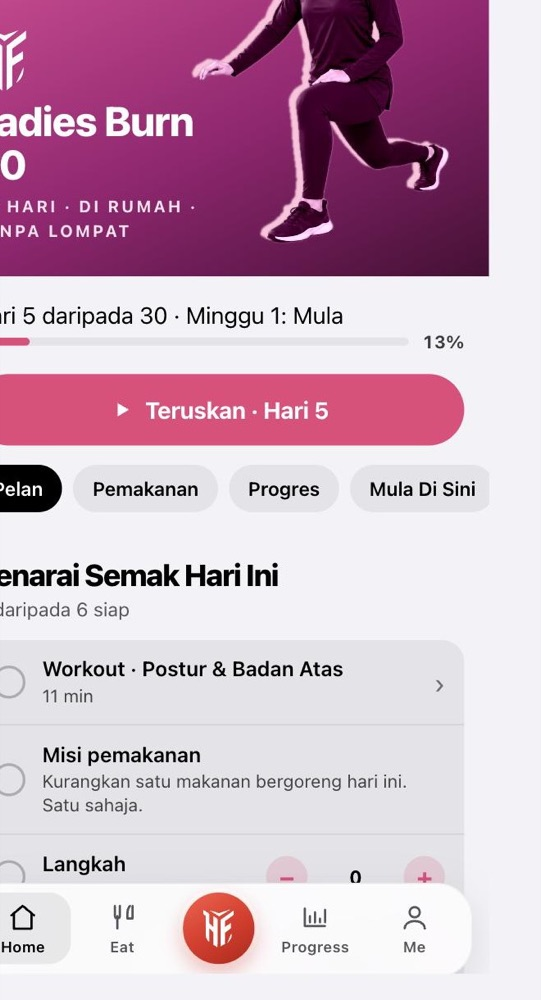
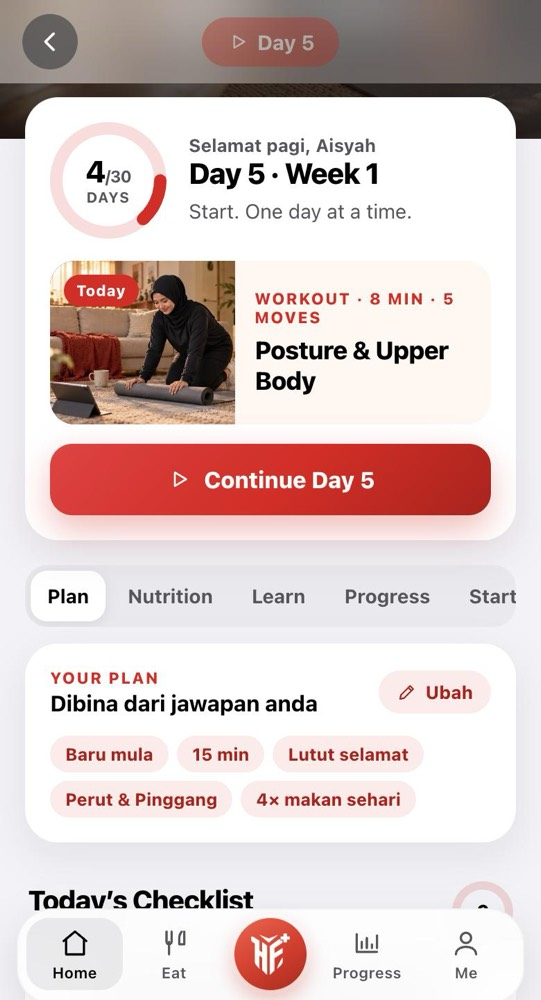
Ladies landing page sells her own plan (Seth: ok). The hero says the 30 days are built from her answers (12 questions after she pays, in the app); a new section, "Bukan pelan sama untuk semua orang", shows the three steps, the question and plan screens, what her training and her menu follow, two wor

diff --git a/ladies/index.html b/ladies/index.html
@@ -4,9 +4,9 @@
 <meta charset="utf-8">
 <meta name="viewport" content="width=device-width, initial-scale=1, viewport-fit=cover">
 <title>Ladies Burn 30 · Program 30 Hari Khas Wanita, di Rumah</title>
-<meta name="description" content="Program workout 30 hari khas untuk wanita: dari rumah, tanpa lompat, 20 minit sehari, dengan menu makanan Malaysia. RM39 sekali bayar.">
+<meta name="description" content="Pelan 30 hari khas untuk wanita, dibina ikut jawapan anda: workout dari rumah tanpa lompat, 10 hingga 20 minit sehari, dan menu makanan Malaysia ikut cara anda makan. RM39 sekali bayar.">
 <meta property="og:title" content="Ladies Burn 30 · Program 30 Hari Khas Wanita, di Rumah">
-<meta property="og:description" content="Dari rumah, tanpa lompat, 20 minit sehari. Menu makanan Malaysia. RM39 sekali bayar.">
+<meta property="og:description" content="Pelan peribadi 30 hari: workout dari rumah tanpa lompat, menu makanan Malaysia ikut cara anda makan. RM39 sekali bayar.">
 <meta property="og:image" content="https://app.hitfat.io/ladies/img/hero-rumah.jpg">
 <meta property="og:url" content="https://app.hitfat.io/ladies/">
 <meta property="og:type" content="website">
@@ -105,7 +105,7 @@ section{padding:56px 0}
 .feat{display:grid;grid-auto-flow:column;grid-auto-columns:100%;gap:20px;margin:24px 0 0;padding:6px 0 10px;overflow-x:auto;scroll-snap-type:x mandatory;-webkit-overflow-scrolling:touch;scrollbar-width:none}
 .feat::-webkit-scrollbar{display:none}
 .f{scroll-snap-align:start;scroll-snap-stop:always;display:flex;flex-direction:column;align-items:center;gap:14px;text-align:center}
-.f .phone{width:64%;max-width:250px}
+.f .phone{width:80%;max-width:300px}
 .f .n{display:inline-grid;place-items:center;width:26px;height:26px;border-radius:50%;background:var(--red);color:#fff;font-size:13px;font-weight:800;margin-bottom:6px}
 .phone{border-radius:28px;overflow:hidden;border:7px solid var(--black);box-shadow:0 18px 36px rgba(20,16,16,.16);background:#fff;aspect-ratio:541/1000}
 .phone img{width:100%;height:100%;object-fit:cover;object-position:top}
@@ -115,12 +115,17 @@ section{padding:56px 0}
 .dots{display:flex;gap:6px}
 .dots i{width:8px;height:8px;border-radius:5px;background:#E6D5CE;transition:width .25s,background .25s}
 .dots i.on{width:22px;background:var(--red)}
+/* the screens by part of the app; a part's button slides to it */
+.ftabs{display:flex;gap:8px;margin:22px 0 0;overflow-x:auto;scrollbar-width:none}
+.ftabs::-webkit-scrollbar{display:none}
+.ftabs button{flex:none;padding:10px 16px;border-radius:999px;border:1.5px solid var(--line);background:var(--white);color:var(--ink);font:700 14px/1 'Plus Jakarta Sans',sans-serif;cursor:pointer}
+.ftabs button.on{background:var(--red);border-color:var(--red);color:#fff}
+.feat .f{position:relative}
 @media (min-width:760px){
   .demo .w{max-width:980px}
-  .feat{grid-auto-flow:row;grid-template-columns:repeat(3,1fr);grid-auto-columns:auto;gap:28px;margin:28px 0 0;padding:0;overflow:visible}
+  .feat{grid-auto-columns:calc((100% - 56px)/3);gap:28px;margin:22px 0 0}
   .f{align-items:stretch;text-align:left}
   .f .phone{width:100%;max-width:none}
-  .swipe{display:none}
 }
 .not{margin-top:22px;padding:16px 18px;border-radius:14px;background:var(--cream);border:1.5px dashed #D9C5BC;font-size:14.5px;color:var(--ink2)}
 .not b{color:var(--ink)}
@@ -144,6 +149,25 @@ section{padding:56px 0}
 .who.no div{font-weight:500;color:var(--ink2)}
 .who.no div:before{content:'–';background:#F3ECE8;color:var(--ink2)}
 .h3s{margin-top:30px;font-size:17px;font-weight:800}
+.perso{background:var(--peach)}
+.psteps{display:grid;grid-template-columns:repeat(3,1fr);gap:8px;margin-top:22px}
+.psteps div{display:flex;flex-direction:column;gap:2px;padding:14px 12px;border-radius:14px;background:var(--white);border:1px solid var(--line)}
+.psteps i{width:30px;height:30px;margin-bottom:6px;border-radius:50%;background:var(--red);color:#fff;font-style:normal;font-weight:800;font-size:14px;display:grid;place-items:center}
+.psteps b{font-size:14.5px;line-height:1.3}
+.psteps span{font-size:12.5px;line-height:1.4;color:var(--ink2)}
+.pphones{display:grid;grid-template-columns:1fr 1fr;gap:14px;margin:26px auto 0;max-width:520px}
+.pcols{display:grid;gap:12px;margin-top:26px}
+.pcol{padding:18px;border-radius:16px;background:var(--white);border:1px solid var(--line)}
+.pcol h3{margin:0 0 10px;font-size:17px;font-weight:800}
+.pcol div{display:flex;gap:10px;align-items:flex-start;padding:6px 0;font-size:15px;font-weight:600;line-height:1.45}
+.pcol div:before{content:'✓';flex:none;width:22px;height:22px;margin-top:1px;border-radius:50%;background:var(--red);color:#fff;font-size:12px;font-weight:800;display:grid;place-items:center}
+.pex{display:grid;gap:10px;margin-top:14px}
+.pex div{padding:16px 18px;border-radius:16px 16px 30px 16px;background:var(--black);color:#fff}
+.pex small{display:block;font-size:11px;font-weight:800;letter-spacing:.12em;text-transform:uppercase;color:#FF8A8F}
+.pex b{display:block;margin-top:4px;font-size:16px}
+.pex span{display:block;margin-top:6px;font-size:14.5px;line-height:1.5;color:rgba(255,255,255,.8)}
+@media (min-width:900px){ .pcols,.pex{grid-template-columns:1fr 1fr} }
+@media (max-width:380px){ .psteps{grid-template-columns:1fr} }
 .care{margin-top:22px;padding:14px 16px;border-radius:14px;background:#FFF4E5;border:1px solid #FFE0B3;font-size:14px;color:#7A4A00}
 
 /* trust */
@@ -317,13 +341,13 @@ h2 em{font-style:normal;color:var(--red)}
       <a class="wa-top" href="#" data-wa>WhatsApp kami</a>
     </div>
     <div class="hero-grid">
-      <div class="hero-ph"><picture><source srcset="img/hero-rumah.webp" type="image/webp"><img src="img/hero-rumah.jpg" alt="Seorang ibu bertudung buat squat di atas tikar di ruang tamu, mengikut video workout di tablet" width="1254" height="1254"></picture><div class="tag"><span>Ladies Burn 30</span>20 minit sehari · tanpa lompat</div></div>
+      <div class="hero-ph"><picture><source srcset="img/hero-rumah.webp" type="image/webp"><img src="img/hero-rumah.jpg" alt="Seorang ibu bertudung buat squat di atas tikar di ruang tamu, mengikut video workout di tablet" width="1254" height="1254"></picture><div class="tag"><span>Ladies Burn 30</span>Pelan peribadi · tanpa lompat</div></div>
       <div>
-        <span class="eyebrow">KHAS UNTUK WANITA · 30 HARI · DI RUMAH</span>
+        <span class="eyebrow">KHAS UNTUK WANITA · PELAN PERIBADI 30 HARI · DI RUMAH</span>
         <h1>Nak Kurus, Tapi Sibuk Urus <em>Kerja, Rumah &amp; Keluarga?</em></h1>
-        <p class="hsub">Program Workout 30 Hari Khas Untuk Wanita — Dari Rumah, Tanpa Lompat &amp; Hanya 20 Minit Sehari.</p>
-        <p class="lede">Tak perlu pergi gym. Tak perlu peralatan mahal. Tak perlu diet ekstrem. Mulakan perjalanan fitness anda dengan panduan yang mudah diikuti, walaupun anda seorang beginner.</p>
-        <div class="icons"><div><i><svg viewBox="0 0 24 24"><path d="M3 11l9-7 9 7v9a1 1 0 0 1-1 1h-5v-6H9v6H4a1 1 0 0 1-1-1z"/></svg></i>Workout dari rumah</div><div><i><svg viewBox="0 0 24 24"><path d="M4 9h4l5-4v14l-5-4H4z"/><path d="M17 9l4 6M21 9l-4 6"/></svg></i>Tanpa lompat, senyap</div><div><i><svg viewBox="0 0 24 24"><path d="M3 11h18a9 9 0 0 1-18 0z"/><path d="M8 7c0-2 2-2 2-4M13 7c0-2 2-2 2-4"/></svg></i>Panduan makan Malaysia</div><div><i><svg viewBox="0 0 24 24"><circle cx="12" cy="12" r="9"/><path d="M12 7v5l3 2"/></svg></i>Hanya 20 minit sehari</div></div>
+        <p class="hsub">Program 30 Hari Khas Untuk Wanita — Workout &amp; Menu Yang Dibina Ikut Badan, Masa &amp; Cara Anda Makan. Dari Rumah, Tanpa Lompat.</p>
+        <p class="lede">Bukan pelan sama untuk semua orang. Selepas daftar, jawab 12 soalan ringkas dan app HITFAT+ terus bina pelan 30 hari anda sendiri: ikut tahap anda, lutut atau belakang yang sakit, masa yang ada, dan berapa kali anda makan sehari.</p>
+        <div class="icons"><div><i><svg viewBox="0 0 24 24"><path d="M3 11l9-7 9 7v9a1 1 0 0 1-1 1h-5v-6H9v6H4a1 1 0 0 1-1-1z"/></svg></i>Workout dari rumah</div><div><i><svg viewBox="0 0 24 24"><path d="M4 9h4l5-4v14l-5-4H4z"/><path d="M17 9l4 6M21 9l-4 6"/></svg></i>Tanpa lompat, senyap</div><div><i><svg viewBox="0 0 24 24"><path d="M3 11h18a9 9 0 0 1-18 0z"/><path d="M8 7c0-2 2-2 2-4M13 7c0-2 2-2 2-4"/></svg></i>Menu ikut cara anda makan</div><div><i><svg viewBox="0 0 24 24"><circle cx="12" cy="12" r="9"/><path d="M12 7v5l3 2"/></svg></i>10 hingga 20 minit sehari</div></div>
         <a class="cta" href="#" data-buy="hero">Saya Nak Mula — RM39</a>
         <div class="sub"><b>Bayar sekali sahaja</b> · tiada langganan · akses terus dalam app HITFAT+</div>
       </div>
@@ -368,8 +392,8 @@ h2 em{font-style:normal;color:var(--red)}
   <div class="w reveal">
     <span class="k">Jangan risau….</span>
     <h2>Ladies Burn 30 memang direka untuk wanita yang <em>SIBUK</em> macam anda!</h2>
-    <div class="ticks"><div>Hanya 20 minit sehari, di rumah sendiri</div><div>Tanpa lompat, tanpa alat</div><div>Makan makanan biasa, termasuk nasi</div></div>
-    <p class="story">Program workout 30 hari khas untuk wanita, dalam app HITFAT+. Setiap hari anda buka telefon dan terus tahu apa nak buat: satu workout pendek, satu misi pemakanan, dan senarai semak yang ringkas.</p>
+    <div class="ticks"><div>Pelan dibina ikut jawapan anda sendiri</div><div>10 hingga 20 minit sehari, di rumah, tanpa lompat</div><div>Makan makanan biasa, termasuk nasi</div></div>
+    <p class="story">Program 30 hari khas untuk wanita, dalam app HITFAT+. Setiap hari anda buka telefon dan terus tahu apa nak buat: workout anda untuk hari itu, menu anda, satu misi pemakanan, dan senarai semak yang ringkas.</p>
     <div class="pic"><img src="img/lb-penyelesaian.webp" alt="Wanita bertudung duduk di atas tikar selepas workout, tersenyum melihat telefon" loading="lazy" width="1536" height="1024"></div>
     <div class="sol">
       <div><i><svg viewBox="0 0 24 24"><rect x="3" y="5" width="18" height="16" rx="2"/><path d="M3 10h18M8 3v4M16 3v4"/></svg></i><b>Workout tersusun 30 hari</b></div>
@@ -387,27 +411,98 @@ h2 em{font-style:normal;color:var(--red)}
   </div>
 </section>
 
+<!-- 4b · PERSONALISED (25 Oct 2026): what her answers change, as the app does it.
+     The plan is built by the app from her answers, not written by a coach. -->
+<section class="perso">
+  <div class="w reveal">
+    <span class="k">Pelan peribadi</span>
+    <h2>Bukan pelan sama untuk <em>semua orang</em>.</h2>
+    <p class="story">Setiap wanita lain. Ada yang baru mula, ada yang lutut sakit, ada yang baru bersalin. Ada yang makan 3 kali sehari, ada yang 5 kali, dan ada yang tak makan pedas. Sebab itu Ladies Burn 30 tidak memberi semua orang pelan yang sama.</p>
+    <div class="psteps">
+      <div><i>1</i><b>Daftar &amp; bayar</b><span>RM39, sekali sahaja.</span></div>
+      <div><i>2</i><b>Jawab 12 soalan</b><span>Dalam app, lebih kurang 2 minit.</span></div>
+      <div><i>3</i><b>Pelan anda sedia</b><span>Serta-merta. Hari 1 terus terbuka.</span></div>
+    </div>
+    <div class="pphones">
+      <div class="phone"><img src="img/app-quiz.jpg" alt="Soalan dalam app: ada bahagian yang selalu sakit? Lutut, belakang bawah, pergelangan tangan" loading="lazy" width="541" height="1000"></div>
+      <div class="phone"><img src="img/app-pelan.jpg" alt="Pelan anda sudah sedia: 30 hari, dibina untuk anda, dengan senarai apa yang berubah" loading="lazy" width="541" height="1000"></div>
+    </div>
+    <div class="pcols">
+      <div class="pcol"><h3>Workout anda ikut…</h3>
+        <div>Tahap anda: baru mula, kadang-kadang, atau aktif</div>
+        <div>Lutut, belakang atau pergelangan tangan yang sakit: gerakannya ditukar</div>
+        <div>Baru bersalin: tiada crunch atau sit-up (selepas doktor benarkan)</div>
+        <div>Masa anda: 10, 15 atau 20 minit sehari</div>
+        <div>Bahagian yang anda mahu ubah: perut, punggung atau postur</div>
+        <div>Kerusi atau botol air yang ada di rumah</div>
+      </div>
+      <div class="pcol"><h3>Menu anda ikut…</h3>
+        <div>Berapa kali anda makan: 3, 4, 5 atau 6 kali sehari</div>
+        <div>Makanan yang anda tak makan: ikan, udang, daging, santan, pedas, susu, telur atau kacang</div>
+        <div>Sasaran kalori anda, dan nasi disukat untuk setiap waktu makan</div>
+        <div>Masak sendiri, masak untuk keluarga, atau kebanyakannya beli</div>
+        <div>Senarai belanja ikut menu anda</div>
+      </div>
+    </div>
+    <div class="pex">
+      <div><small>Contoh jawapan</small><b>Baru mula · lutut sakit · 15 minit</b><span>Push-up dari dinding, tiada squat atau lunge, 2 pusingan untuk dua minggu pertama, setiap sesi 15 minit atau kurang.</span></div>
+      <div><small>Contoh jawapan</small><b>Aktif · 20 minit · makan 5 kali · tak makan pedas</b><span>45 saat setiap gerakan, push-up penuh di minggu akhir, dan menu 5 kali sehari tanpa hidangan pedas.</span></div>
+    </div>
+    <p class="fine">Pelan anda dibina oleh app HITFAT+ secara automatik daripada jawapan anda. Anda boleh ubah jawapan bila-bila masa, dan pelan dibina semula.</p>
+    <a class="cta mid" href="#" data-buy="perso">Bina Pelan Saya — RM39</a>
+  </div>
+</section>
+
 <!-- 5 · DEMONSTRATION -->
 <section class="bg-w demo">
   <div class="w reveal">
     <span class="k">Tengok sendiri</span>
     <h2>Macam ini rupanya <em>dalam app</em>.</h2>
-    <p class="intro">Skrin sebenar Ladies Burn 30 dalam HITFAT+, di app.hitfat.io. Tiada muat turun dari App Store.</p>
+    <p class="intro">Skrin sebenar Ladies Burn 30 dalam HITFAT+, di app.hitfat.io. Tiada muat turun dari App Store. Tekan bahagian yang anda mahu tengok.</p>
+    <div class="ftabs" id="ftabs"><button type="button" data-g="latihan" class="on">Latihan</button><button type="button" data-g="makan">Makan</button><button type="button" data-g="progres">Progres</button><button type="button" data-g="belajar">Belajar</button></div>
     <div class="feat">
-      <div class="f">
-        <div class="phone"><img src="img/app-hero.jpg" alt="Skrin utama Ladies Burn 30" loading="lazy" width="541" height="1000"></div>
-        <div><span class="n">1</span><h3>Buka telefon, tahu apa nak buat hari ni</h3><p>Senarai semak harian: workout, langkah, air, misi pemakanan dan tidur.</p></div>
+      <div class="f" data-g="latihan">
+        <div class="phone"><img src="img/app-hero.jpg" alt="Skrin utama: Hari 5, workout hari ini dan kad pelan anda" loading="lazy" width="541" height="1000"></div>
+        <div><span class="n">1</span><h3>Hari ini, satu skrin</h3><p>Buka telefon dan terus nampak workout anda hari ini, berapa minit, dan pelan anda.</p></div>
       </div>
-      <div class="f">
-        <div class="phone"><img src="img/app-menu.jpg" alt="Sasaran kalori dan menu makanan Malaysia" loading="lazy" width="541" height="1000"></div>
-        <div><span class="n">2</span><h3>Sasaran kalori anda, menu yang anda kenal</h3><p>Dikira dari berat, tinggi dan umur (tidak pernah bawah 1,200 kcal). Tiga pilihan setiap waktu makan.</p></div>
+      <div class="f" data-g="latihan">
+        <div class="phone"><img src="img/app-day.jpg" alt="Skrin workout: minit, gerakan, pusingan, pilihan sekali gus atau 2 kali 10 minit" loading="lazy" width="541" height="1000"></div>
+        <div><span class="n">2</span><h3>Setiap workout, jelas</h3><p>Berapa minit, berapa gerakan, berapa pusingan, dan sifar lompatan. Buat sekali gus, atau 2 × 10 minit pagi dan petang.</p></div>
       </div>
-      <div class="f">
-        <div class="phone"><img src="img/app-plan.jpg" alt="Pelan 30 hari" loading="lazy" width="541" height="1000"></div>
-        <div><span class="n">3</span><h3>30 workout, satu hari satu</h3><p>10 hingga 20 minit, tanpa lompat dan tanpa alat. Ikut video, dengan suara yang mengira dan muzik.</p></div>
+      <div class="f" data-g="latihan">
+        <div class="phone"><img src="img/app-moves.jpg" alt="Senarai gerakan dengan butang video" loading="lazy" width="541" height="1000"></div>
+        <div><span class="n">3</span><h3>Video setiap gerakan</h3><p>Tekan mana-mana gerakan untuk tonton videonya dahulu. Saat setiap gerakan ikut tahap anda.</p></div>
+      </div>
+      <div class="f" data-g="latihan">
+        <div class="phone"><img src="img/app-plan.jpg" alt="Pelan 30 hari mengikut minggu" loading="lazy" width="541" height="1000"></div>
+        <div><span class="n">4</span><h3>30 hari, 4 minggu</h3><p>Start, Build, Glow, Strong. Nampak hari yang dah siap dan hari yang menunggu.</p></div>
+      </div>
+      <div class="f" data-g="makan">
+        <div class="phone"><img src="img/app-target.jpg" alt="Sasaran kalori harian, misi pemakanan dan scan makanan" loading="lazy" width="541" height="1000"></div>
+        <div><span class="n">5</span><h3>Sasaran kalori anda</h3><p>Kalori, protein, karbo, lemak dan air, dikira untuk badan anda. Satu misi pemakanan setiap hari, dan 10 scan AI untuk ambil gambar hidangan.</p></div>
+      </div>
+      <div class="f" data-g="makan">
+        <div class="phone"><img src="img/app-menu.jpg" alt="Menu sarapan dengan gambar hidangan" loading="lazy" width="541" height="1000"></div>
+        <div><span class="n">6</span><h3>Menu dengan gambar</h3><p>Setiap waktu makan ada tiga pilihan hidangan Malaysia, dengan gambar dan kalorinya.</p></div>
+      </div>
+      <div class="f" data-g="makan">
+        <div class="phone"><img src="img/app-rice.jpg" alt="Hidangan tengah hari dengan sukatan nasi anda" loading="lazy" width="541" height="1000"></div>
+        <div><span class="n">7</span><h3>Nasi anda, disukat</h3><p>App kira berapa genggam nasi untuk anda pada setiap waktu makan, ikut sasaran kalori anda.</p></div>
+      </div>
+      <div class="f" data-g="makan">
+        <div class="phone"><img src="img/app-shop.jpg" alt="Senarai belanja mengikut minggu" loading="lazy" width="541" height="1000"></div>
+        <div><span class="n">8</span><h3>Senarai belanja</h3><p>Dari menu anda untuk seminggu. Tanda bila dah beli, atau hantar ke WhatsApp.</p></div>
+      </div>
+      <div class="f" data-g="progres">
+        <div class="phone"><img src="img/app-fit.jpg" alt="Fit test Hari 1 dan Hari 30" loading="lazy" width="541" height="1000"></div>
+        <div><span class="n">9</span><h3>Nampak anda makin kuat</h3><p>Check-in Hari 1, 15 dan 30: berat, pinggang, pinggul, gambar, dan fit test Hari 1 lawan Hari 30.</p></div>
+      </div>
+      <div class="f" data-g="belajar">
+        <div class="phone"><img src="img/app-learn.jpg" alt="Nutrition Academy dalam app" loading="lazy" width="541" height="1000"></div>
+        <div><span class="n">10</span><h3>Nutrition Academy</h3><p>28 video pendek dalam Bahasa Melayu tentang makan, mamak, kenduri dan penimbang. Termasuk dalam Ladies Burn 30.</p></div>
       </div>
     </div>
-    <div class="swipe"><span class="dots" id="feat-dots"><i class="on"></i><i></i><i></i></span>Leret untuk lihat →</div>
+    <div class="swipe"><span class="dots" id="feat-dots"><i class="on"></i><i></i><i></i><i></i><i></i><i></i><i></i><i></i><i></i><i></i></span>Leret untuk lihat →</div>
   </div>
 </section>
 
@@ -478,7 +573,8 @@ h2 em{font-style:normal;color:var(--red)}
       <div>Baru nak mula bersenam, atau dah lama berhenti</div>
       <div>Ibu yang bekerja, suri rumah, atau wanita yang sibuk</div>
       <div>Lebih selesa bersenam di rumah, dalam privasi sendiri</div>
-      <div>Lutut tak suka lompat-lompat</div>
+      <div>Ada lutut, belakang atau pergelangan tangan yang sensitif</div>
+      <div>Baru bersalin dan doktor sudah benarkan bersenam</div>
       <div>Nak makan makanan biasa, bukan diet pelik</div>
     </div>
     <p class="h3s">Mungkin kurang sesuai kalau anda…</p>
@@ -487,7 +583,7 @@ h2 em{font-style:normal;color:var(--red)}
       <div>Mencari cara turun berat yang sangat cepat dalam masa singkat</div>
       <div>Sudah biasa dengan latihan berat dan mahu cabaran yang lebih tinggi</div>
     </div>
-    <div class="care"><b>Sebelum mula:</b> jika anda hamil, baru bersalin (kurang 6 minggu), selepas pembedahan caesarean, atau ada masalah kesihatan, dapatkan nasihat doktor dahulu.</div>
+    <div class="care"><b>Sebelum mula:</b> program ini tidak dibina untuk kehamilan. Jika anda baru bersalin (kurang 6 minggu), selepas pembedahan caesarean, atau ada masalah kesihatan, dapatkan nasihat doktor dahulu.</div>
   </div>
 </section>
 
@@ -497,10 +593,12 @@ h2 em{font-style:normal;color:var(--red)}
     <span class="k">Apa yang anda dapat</span>
     <h2>Semua ini dalam Ladies Burn 30.</h2>
     <div class="stack">
+      <div><i>🧩</i><b>Pelan 30 hari yang dibina untuk anda</b><span>12 soalan selepas daftar. Workout dan menu ikut jawapan anda.</span></div>
       <div><i>🎥</i><b>30 workout dengan video setiap gerakan</b><span>10 hingga 20 minit sehari, tanpa lompat, tanpa alat.</span></div>
       <div><i>🔊</i><b>Suara yang mengira, dan muzik</b><span>Nama gerakan, kiraan 5-4-3-2-1, dan bila masa rehat.</span></div>
-      <div><i>🎯</i><b>Sasaran kalori dan makro anda sendiri</b><span>Dikira dari berat, tinggi dan umur. Tidak pernah bawah 1,200 kcal.</span></div>
-      <div><i>🍛</i><b>Menu makanan Malaysia untuk 30 hari</b><span>Sarapan, bekal tengah hari, makan malam keluarga. Tiga pilihan setiap waktu.</span></div>
+      <div><i>🎯</i><b>Sasaran kalori dan makro anda sendiri</b><span>Dikira dari badan, aktiviti dan rentak anda. Tidak pernah bawah 1,200 kcal.</span></div>
+      <div><i>🍛</i><b>Menu makanan Malaysia untuk 30 hari</b><span>3 hingga 6 kali sehari, 64 hidangan bergambar, tiga pilihan setiap waktu, nasi disukat untuk anda.</span></div>
+      <div><i>🛒</i><b>Senarai belanja setiap minggu</b><span>Dari menu anda, tanda bila dah beli, hantar ke WhatsApp.</span></div>
       <div><i>✅</i><b>30 misi pemakanan dan senarai semak harian</b><span>Satu langkah kecil setiap hari.</span></div>
       <div><i>📏</i><b>Check-in Hari 1, 15 dan 30</b><span>Ukuran, gambar progres (dalam telefon anda sahaja) dan fit test.</span></div>
       <div><i>🏅</i><b>Lencana setiap minggu</b><span>Start, Build, Glow, Strong.</span></div>
@@ -515,7 +613,7 @@ h2 em{font-style:normal;color:var(--red)}
   <div class="w reveal">
     <span class="k">Harga</span>
     <h2>Berapa untuk semua ini?</h2>
-    <p class="anchor">Satu kelas walk-in di gym HITFAT ialah RM40. Ladies Burn 30 memberi anda 30 hari workout, pelan dan menu, untuk harga yang lebih rendah dari satu kelas itu.</p>
+    <p class="anchor">Satu kelas walk-in di gym HITFAT ialah RM40. Ladies Burn 30 memberi anda pelan peribadi 30 hari, workout dan menu, untuk harga yang lebih rendah dari satu kelas itu.</p>
     <div class="pcard">
       <div class="amt"><b>RM39</b><span>sekali bayar</span></div>
       <div class="per">Kurang dari RM1.30 sehari untuk 30 hari. Tiada langganan, tiada caj bulanan. Milik anda selamanya.</div>
@@ -526,7 +624,7 @@ h2 em{font-style:normal;color:var(--red)}
     <div class="after">
       <div><i>1</i><span><b>Isi maklumat</b>Nama, emel dan no. telefon.</span></div>
       <div><i>2</i><span><b>Bayar dengan selamat</b>FPX atau DuitNow, melalui Bayarcash.</span></div>
-      <div><i>3</i><span><b>Log masuk dan mula</b>Buka app.hitfat.io dengan emel yang sama. Hari 1 terus terbuka.</span></div>
+      <div><i>3</i><span><b>Log masuk dan bina pelan anda</b>Buka app.hitfat.io dengan emel yang sama, jawab 12 soalan, dan Hari 1 terus terbuka.</span></div>
     </div>
   </div>
 </section>
@@ -537,18 +635,19 @@ h2 em{font-style:normal;color:var(--red)}
     <span class="k">Soalan lazim</span>
     <h2>Ada soalan?</h2>
     <div class="faq">
-      <details><summary>Saya beginner. Sesuai ke?</summary><p>Sesuai. Minggu 1 memang sesi pendek, dan setiap gerakan ada video. Mula dengan apa yang anda mampu. Jika terasa sakit pada sendi, berhenti.</p></details>
+      <details><summary>Apa maksud pelan peribadi?</summary><p>Selepas daftar, anda jawab 12 soalan dalam app: tahap anda, bahagian yang sakit, masa, bahagian yang mahu diubah, badan, aktiviti, berapa kali makan sehari, makanan yang anda tak makan dan siapa yang masak. App HITFAT+ terus bina 30 hari workout dan menu daripada jawapan itu. Ia dibina secara automatik, bukan ditulis oleh coach seorang demi seorang, dan anda boleh ubah jawapan bila-bila masa.</p></details>
+      <details><summary>Saya beginner. Sesuai ke?</summary><p>Sesuai. Pilih "Baru mula" dalam soalan, dan pelan anda bermula perlahan: 30 saat setiap gerakan, 2 pusingan untuk dua minggu pertama, dan versi yang lebih mudah seperti push-up dinding. Setiap gerakan ada video. Jika terasa sakit pada sendi, berhenti.</p></details>
       <details><summary>Perlu pergi gym?</summary><p>Tak perlu. Semua workout dibuat di rumah, cukup ruang sebesar tikar.</p></details>
       <details><summary>Perlu beli peralatan?</summary><p>Tak perlu. Cukup tikar atau tuala, dinding, dan botol air minum.</p></details>
       <details><summary>RM39 ni bayar sekali atau bulanan?</summary><p>Sekali sahaja. Tiada langganan, dan program milik anda selamanya.</p></details>
       <details><summary>Kalau saya sibuk, boleh ikut?</summary><p>Boleh. Pecahkan kepada 2 × 10 minit, pagi dan petang. Tertinggal sehari? Sambung esok, pelan menunggu anda.</p></details>
-      <details><summary>Kalau ada masalah lutut, sesuai ke?</summary><p>Semua workout tanpa lompat dan impak rendah. Jika anda ada kecederaan atau sakit lutut, dapatkan nasihat doktor atau fisioterapi dahulu, dan berhenti jika terasa sakit.</p></details>
-      <details><summary>Perlu ikut diet ketat?</summary><p>Tidak. Menu dalam app termasuk nasi putih, nasi lemak separuh, nasi goreng kampung dan lauk biasa, dengan sukatan yang ikut sasaran kalori anda. Sasaran itu tidak pernah bawah 1,200 kcal sehari.</p></details>
+      <details><summary>Kalau ada masalah lutut, sesuai ke?</summary><p>Semua workout tanpa lompat dan impak rendah. Jika anda tanda lutut sakit, pelan anda tidak ada squat, lunge atau wall sit; gerakan itu ditukar kepada gerakan punggung yang tidak membebankan lutut. Jika anda ada kecederaan, dapatkan nasihat doktor atau fisioterapi dahulu, dan berhenti jika terasa sakit.</p></details>
+      <details><summary>Perlu ikut diet ketat?</summary><p>Tidak. Menu dalam app termasuk nasi putih, nasi lemak separuh, nasi goreng kampung dan lauk biasa, 3 hingga 6 kali sehari ikut pilihan anda, tanpa makanan yang anda tak makan. Nasi disukat ikut sasaran kalori anda, yang tidak pernah bawah 1,200 kcal sehari.</p></details>
       <details><summary>Ada coach personal yang pantau saya?</summary><p>Tidak. Ladies Burn 30 ialah program kendiri dalam app: video workout, pelan harian, sasaran kalori dan menu. Untuk masalah akses atau bayaran, WhatsApp kami.</p></details>
       <details><summary>Macam mana nak akses program?</summary><p>Buka app.hitfat.io dan log masuk dengan Google atau emel yang sama seperti semasa bayar. Program terus terbuka. Boleh guna di iPhone, Android, tablet atau komputer, dan boleh "Add to Home Screen" supaya ia jadi macam app.</p></details>
-      <details><summary>Berapa kilo boleh turun?</summary><p>Kami tak janji nombor ajaib. Sasaran yang sihat dalam app ialah lebih kurang 0.5 kg seminggu, dan hasil bergantung pada pemakanan dan konsistensi anda. Ukur pinggang dan pinggul juga, kerana itu selalunya berubah dahulu.</p></details>
+      <details><summary>Berapa kilo boleh turun?</summary><p>Kami tak janji nombor ajaib. Dalam app anda pilih rentak perlahan (lebih kurang 0.25 kg seminggu) atau sederhana (lebih kurang 0.5 kg seminggu), dan hasil bergantung pada pemakanan dan konsistensi anda. Ukur pinggang dan pinggul juga, kerana itu selalunya berubah dahulu.</p></details>
       <details><summary>Waktu period macam mana?</summary><p>Dengar badan anda. Gerak ringan pun dah dikira. Anda boleh sambung bila sedia.</p></details>
-      <details><summary>Apa berlaku selepas pembayaran?</summary><p>Anda nampak halaman pengesahan pembayaran, kemudian log masuk app.hitfat.io dengan emel yang sama dan Hari 1 terbuka. Jika bayaran berjaya tetapi program tidak terbuka, WhatsApp kami dengan nombor pesanan dan kami akan bukakan.</p></details>
+      <details><summary>Apa berlaku selepas pembayaran?</summary><p>Anda nampak halaman pengesahan pembayaran, kemudian log masuk app.hitfat.io dengan emel yang sama, jawab 12 soalan untuk pelan anda, dan Hari 1 terbuka. Jika bayaran berjaya tetapi program tidak terbuka, WhatsApp kami dengan nombor pesanan dan kami akan bukakan.</p></details>
       <details><summary>Ada bayaran balik?</summary><p>Semua pembelian adalah muktamad dan tiada bayaran balik (<a href="/refund">polisi bayaran balik</a>).</p></details>
       <details><summary>Saya dah ada HITFAT+. Perlu beli lagi?</summary><p>Tak perlu. Ladies Burn 30 termasuk dalam membership HITFAT+.</p></details>
     </div>
@@ -574,7 +673,7 @@ h2 em{font-style:normal;color:var(--red)}
 </footer>
 
 <div class="bar" id="bar"><div class="w">
-  <div class="t"><b>Ladies Burn 30</b><span>RM39 · bayar sekali · 20 min sehari</span></div>
+  <div class="t"><b>Ladies Burn 30</b><span>RM39 · bayar sekali · pelan peribadi</span></div>
   <a class="cta" href="#" data-buy="bar">Saya Nak Mula</a>
 </div></div>
 
@@ -690,8 +789,13 @@ var TESTI = [];
 </script>
 <script>
 /* the dots under the app's screens follow the slide */
-(function(){ var f=document.querySelector('.feat'), d=document.querySelectorAll('#feat-dots i'); if(!f||!d.length) return;
-  f.addEventListener('scroll', function(){ var i=Math.round(f.scrollLeft/(f.clientWidth+20)); for(var k=0;k<d.length;k++) d[k].className=(k===i?'on':''); }, {passive:true}); })();
+(function(){ var f=document.querySelector('.feat'), d=document.querySelectorAll('#feat-dots i'), sl=document.querySelectorAll('.feat .f'), tb=document.querySelectorAll('#ftabs button'); if(!f||!sl.length) return;
+  var at=function(){ var x=f.scrollLeft, best=0; for(var k=0;k<sl.length;k++) if(Math.abs(sl[k].offsetLeft-f.offsetLeft-x)<Math.abs(sl[best].offsetLeft-f.offsetLeft-x)) best=k; return best; };
+  f.addEventListener('scroll', function(){ var i=at(), g=sl[i].getAttribute('data-g'); for(var k=0;k<d.length;k++) d[k].className=(k===i?'on':'');
+    for(k=0;k<tb.length;k++) tb[k].className=(tb[k].getAttribute('data-g')===g?'on':''); }, {passive:true});
+  /* a group's button slides to its first screen */
+  for(var k=0;k<tb.length;k++) tb[k].addEventListener('click', function(){ var g=this.getAttribute('data-g');
+    for(var j=0;j<sl.length;j++) if(sl[j].getAttribute('data-g')===g){ f.scrollTo({left:sl[j].offsetLeft-f.offsetLeft, behavior:'smooth'}); break; } }); })();
 </script>
 </body>
 </html>
